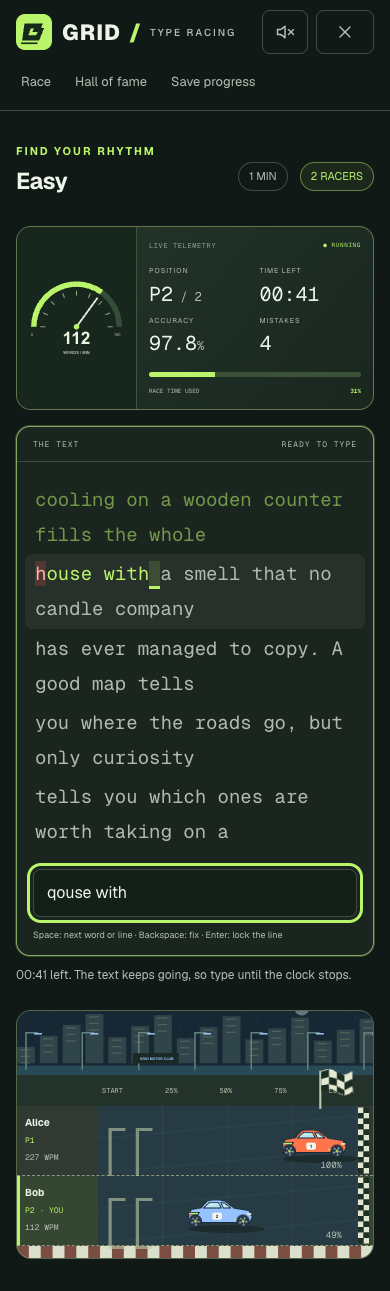
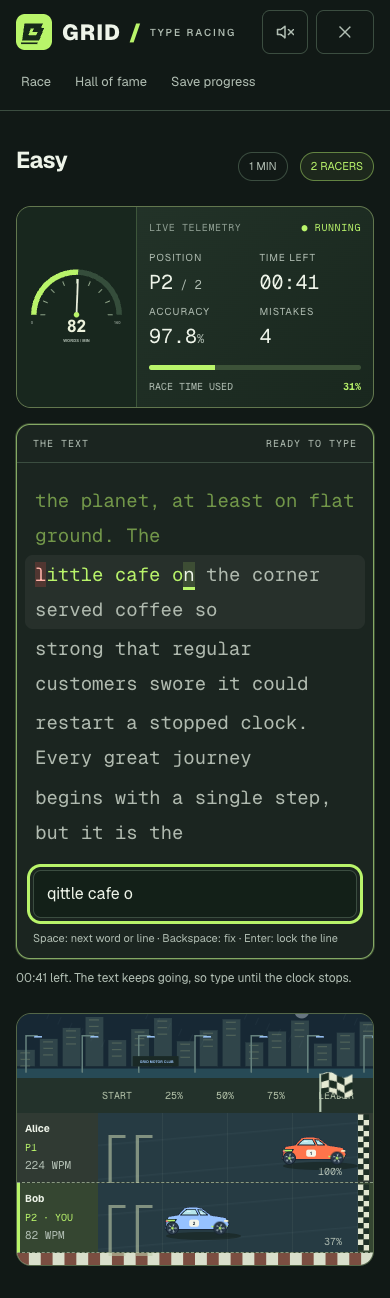
feat: readable label floor, garage and trophy alignment on phones
- Kit labels never render below 10px (uppercase/mono) or 11px (small print),
  including the kits' phone shrink rules that went down to 6px
- Garage on phones: models scroll sideways so Confirm sits under the choice;
  grid column constrained so the strip can't widen the page
- Trophy room tiles and clubhouse slots align to the top
- Race: finish flag stands on the skyline, clear of the LEADER ruler label

diff --git a/client/src/index.css b/client/src/index.css
@@ -685,3 +685,114 @@ html {
     grid-column: 1 / -1;
   }
 }
+
+/*
+ * Readability floor. The kits set many labels at 6–9px (smaller still on phones).
+ * Uppercase/mono labels get at least 10px; sentence-case small print at least 11px.
+ * Applies at every width, so the kits' phone shrink rules no longer go below it.
+ */
+.g-hud-position .g-eyebrow,
+.g-stat > span,
+.g-mini-wrap .g-eyebrow,
+.g-mini-start,
+.g-mini-end,
+.g-podium-slot small,
+.g-result-player small,
+.g-award .g-eyebrow,
+.g-podium-time,
+.g-results-table td[data-label]::before,
+.g-system-state .g-eyebrow,
+.g-track-ruler,
+.g-lane-percent,
+.g-lane-label strong span,
+.g-typing-head,
+.g-timer small,
+.g-mode .g-eyebrow,
+.g-player .g-pill,
+.lb-caption,
+.lb-champion-place > span,
+.lb-you,
+.lb-rules > .g-eyebrow,
+.w-distance,
+.w-bay-top,
+.w-bay-person small,
+.w-lane-name span,
+.w-destination-card > span,
+.w-paddock-control .g-eyebrow,
+.w-dash-kicker,
+.w-dash-kicker span,
+.w-dash-stats > div > span,
+.w-dash-progress-label,
+.w-board-source,
+.w-cabinet-slot small,
+.w-trophy-details > .g-eyebrow,
+.w-round-card > span,
+.w-static-passage > span,
+.w-overview-card > span,
+.w-workshop-footer,
+.a-guest-summary > .g-eyebrow,
+.a-guest-name .g-pill,
+.a-profile-identity .g-pill,
+.a-profile-metrics span,
+.a-card-heading > span,
+.a-chart-range,
+.a-champion > strong small,
+.a-leader-table small,
+.a-unlock-copy .g-eyebrow,
+.a-preview-banner,
+.a-demo-label {
+  font-size: 10px;
+}
+.g-typing-foot,
+.lb-mobile-date,
+.w-lane-name small,
+.w-bay-person > span,
+.w-sidebar > p,
+.w-footer,
+.w-topbar,
+.w-nav a small,
+.g-lane-label small,
+.a-auth-bottom > span,
+.a-mode-row small,
+.a-trophy-strip span,
+.a-champion p,
+.a-unlock-recipient,
+.a-footer {
+  font-size: 11px;
+}
+
+/* Cabinet slots are buttons, which centre their content; keep every trophy on one baseline. */
+.w-cabinet-slot {
+  display: flex;
+  flex-direction: column;
+  align-items: center;
+  justify-content: flex-start;
+}
+
+/* Garage on phones: the 15 models scroll sideways, so Confirm stays close to the choice. */
+@media (max-width: 639px) {
+  .garage-models {
+    display: flex;
+    gap: 10px;
+    overflow-x: auto;
+    scroll-snap-type: x mandatory;
+    margin-inline: -16px;
+    padding: 2px 16px 10px;
+    scrollbar-width: thin;
+  }
+  .garage-models > button {
+    flex: 0 0 44%;
+    scroll-snap-align: start;
+  }
+}
+
+/* Race: with the barrier strip hidden, stand the finish flag on the skyline, clear of the ruler. */
+.race-screen .w-finish-flag {
+  top: 54px;
+}
+@media (max-width: 767px) {
+  .race-screen .w-finish-flag {
+    top: 16px;
+    width: 40px;
+  }
+}

diff --git a/client/src/components/garage/Garage.tsx b/client/src/components/garage/Garage.tsx
@@ -161,13 +161,13 @@ export function Garage({ lobbyId, me, meIndex, players, locked }: Props) {
         ))}
       </div>
 
-      <div className="grid gap-6 lg:grid-cols-[minmax(0,1fr)_340px]">
+      <div className="grid grid-cols-1 gap-6 lg:grid-cols-[minmax(0,1fr)_340px]">
         <section>
           <div className="mb-4 flex items-center justify-between">
             <h3 className="text-lg font-semibold">The collection <span className="ml-2 text-sm text-muted">15</span></h3>
-            <span className="text-[9px] tracking-widest text-subtle">ALL MODELS UNLOCKED</span>
+            <span className="text-[10px] tracking-widest text-subtle">ALL MODELS UNLOCKED</span>
           </div>
-          <div className="grid grid-cols-2 gap-3 sm:grid-cols-3">
+          <div className="garage-models grid grid-cols-2 gap-3 sm:grid-cols-3">
             {MODEL_GEOMETRY.map((m, i) => {
               const selected = m.id === build.model;
               return (

diff --git a/client/src/components/trophies/TrophyRoom.tsx b/client/src/components/trophies/TrophyRoom.tsx
@@ -55,9 +55,9 @@ export function TrophyRoom() {
             key={id}
             aria-pressed={selected === id}
             onClick={() => setSelected(id)}
-            className="rounded-card border border-line bg-panel p-3 text-left transition hover:border-line-hi hover:bg-panel-hi aria-pressed:border-lime"
+            className="flex flex-col justify-start rounded-card border border-line bg-panel p-3 text-left transition hover:border-line-hi hover:bg-panel-hi aria-pressed:border-lime"
           >
-            <div className="flex justify-between font-mono text-[9px] uppercase tracking-wider text-subtle">
+            <div className="flex justify-between font-mono text-[10px] uppercase tracking-wider text-subtle">
               <span>{TROPHIES[id].category}</span>
               <span>{String(IDS.indexOf(id) + 1 || i + 1).padStart(2, '0')}</span>
             </div>
